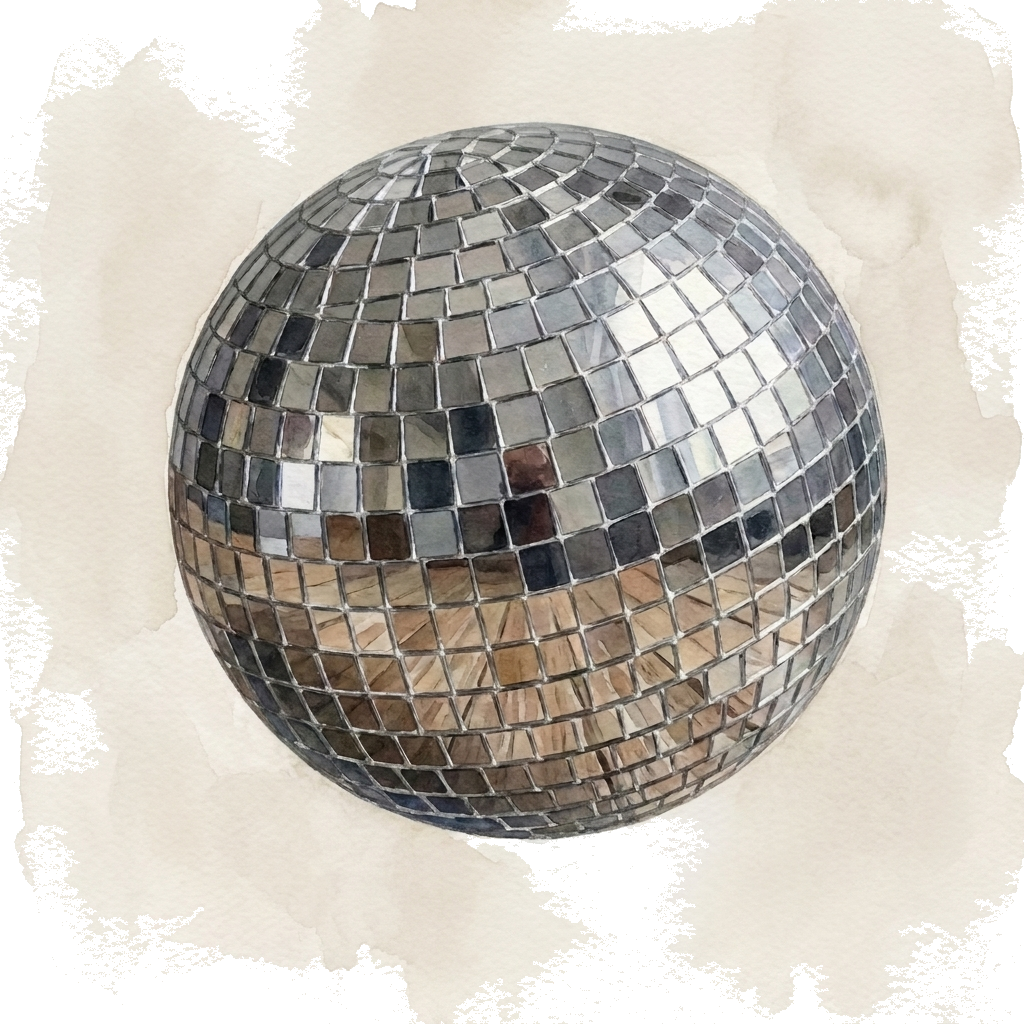
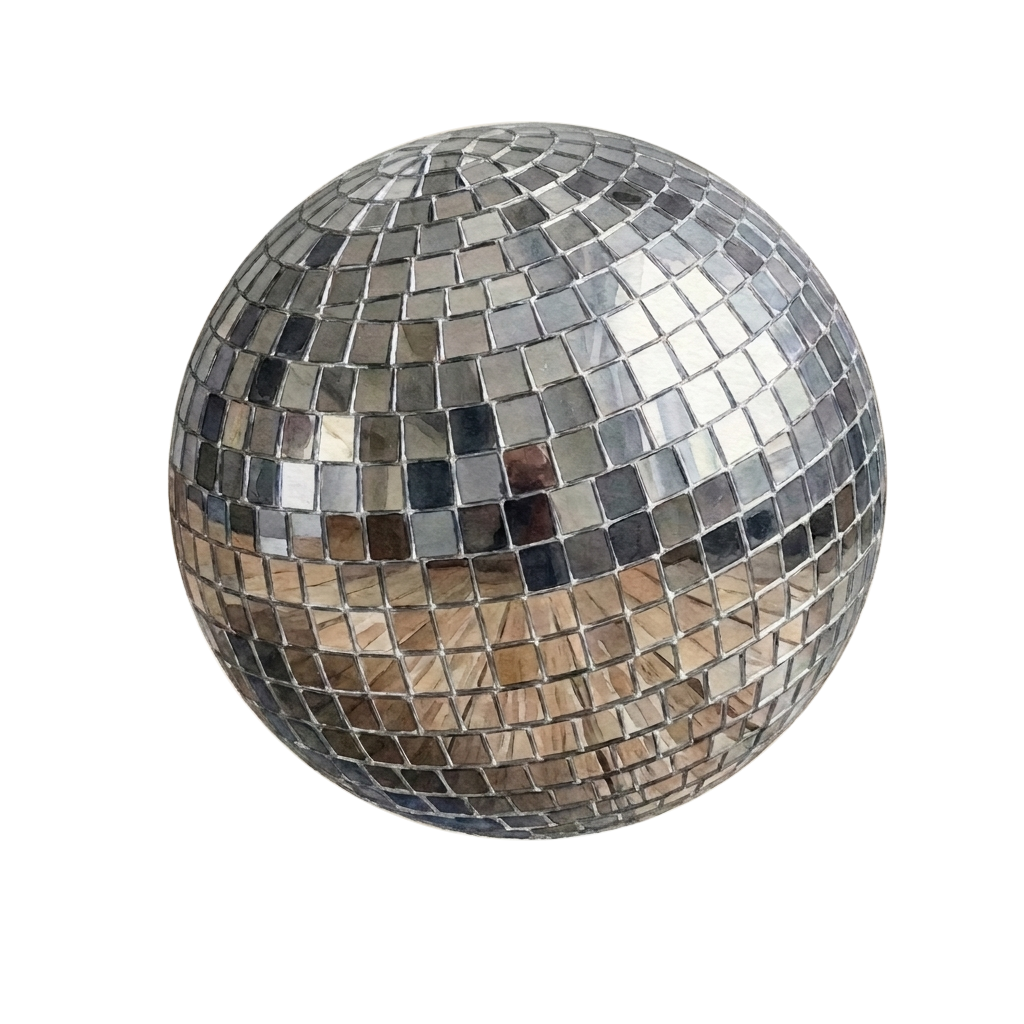
feat (assets) 🖼️: aplicar mascara circular matematica para limpiar el fondo de la bola de disco

diff --git a/scripts/make-transparent-flood.js b/scripts/make-transparent-flood.js
@@ -24,7 +24,7 @@ const filesToConvert = [
     { name: 'base-flower.jpeg', out: 'base-flower.png', type: 'flood', tolerance: 30 },
     { name: 'base-flower-2.jpeg', out: 'base-flower-2.png', type: 'flood', tolerance: 30 },
     { name: 'itinerary-frame.jpeg', out: 'itinerary-frame.png', type: 'flood', tolerance: 40, extraSeeds: [{ x: 384, y: 688 }, { x: 384, y: 1200 }, { x: 100, y: 1200 }, { x: 668, y: 1200 }] },
-    { name: 'bola-disco-2.jpeg', out: 'bola-disco-2.png', type: 'flood', tolerance: 30 },
+    { name: 'bola-disco-2.jpeg', out: 'bola-disco-2.png', type: 'circle', cx: 527, cy: 480.5, r: 359 },
 ];
 
 async function removeBackgroundFloodFill(data, info, colorTolerance, refPixel, extraSeeds) {
@@ -136,6 +136,23 @@ async function removeBackgroundThreshold(data, info, threshold) {
     }
 }
 
+async function removeBackgroundCircle(data, info, cx, cy, r) {
+    const { width, height } = info;
+    for (let y = 0; y < height; y++) {
+        for (let x = 0; x < width; x++) {
+            const idx = (y * width + x) * 4;
+            const dist = Math.sqrt((x - cx) ** 2 + (y - cy) ** 2);
+            if (dist > r + 1.5) {
+                data[idx + 3] = 0;
+            } else if (dist > r - 0.5) {
+                // Anti-aliasing (feather edge)
+                const factor = 1 - (dist - (r - 0.5)) / 2;
+                data[idx + 3] = Math.max(0, Math.min(255, Math.round(data[idx + 3] * factor)));
+            }
+        }
+    }
+}
+
 async function main() {
     for (const file of filesToConvert) {
         // Read from backup (high-res original) if available, otherwise direct images folder
@@ -160,6 +177,8 @@ async function main() {
                 await removeBackgroundFloodFill(data, info, file.tolerance, file.refPixel, file.extraSeeds);
             } else if (file.type === 'threshold') {
                 await removeBackgroundThreshold(data, info, file.threshold);
+            } else if (file.type === 'circle') {
+                await removeBackgroundCircle(data, info, file.cx, file.cy, file.r);
             }
 
             // Write raw data back as PNG